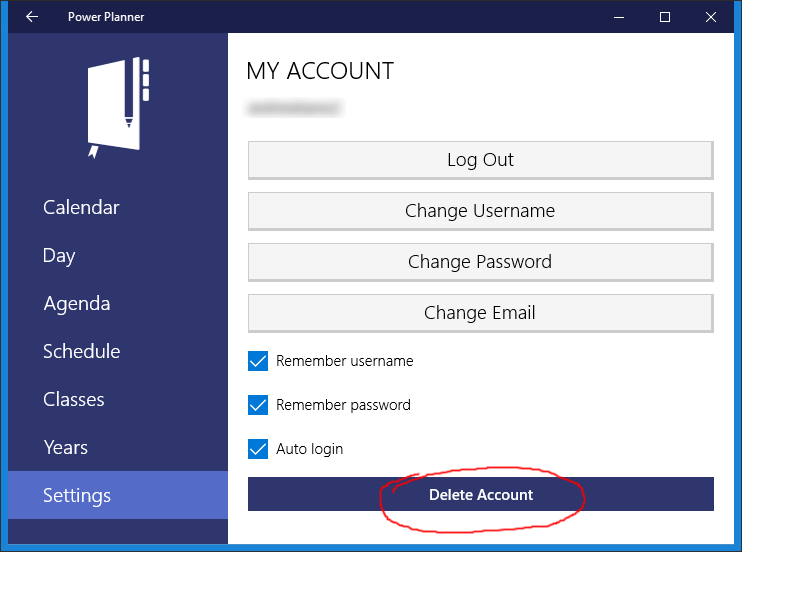
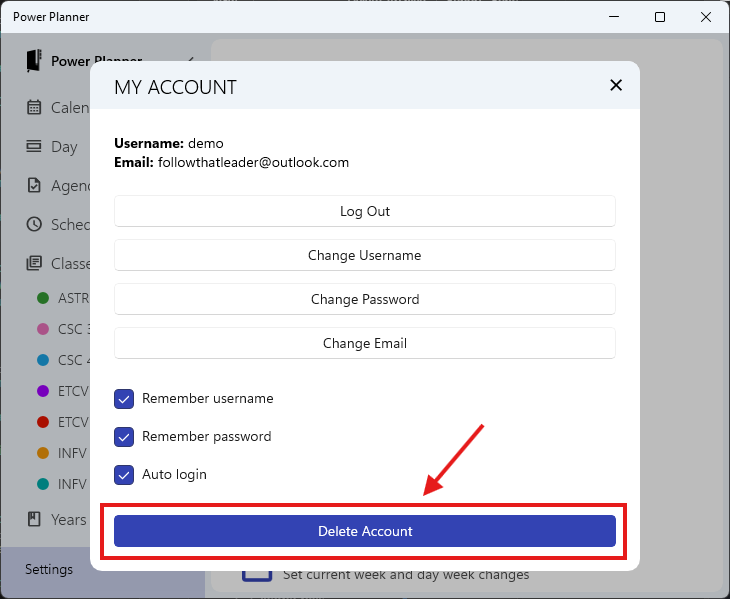
Updates

diff --git a/src/content/docs/misc/custom-theme.md b/src/content/docs/misc/custom-theme.md
@@ -5,6 +5,6 @@ sidebar:
   order: 3
 ---
 
-The iOS, Windows, and Android apps support picking a custom theme color for the app. Go to **Settings -> Theme** and you can select a custom accent color that's applied to the colors across the app!
+The iOS, Windows, and Android apps support picking a custom theme color for the app. Go to **Settings -> Theme**, and change the **Appearance** from **Automatic -> Custom**, and you can select custom background, foreground, and accent colors!
 
 ![Screenshot of custom theme color settings](../../../assets/custom-theme.png)
